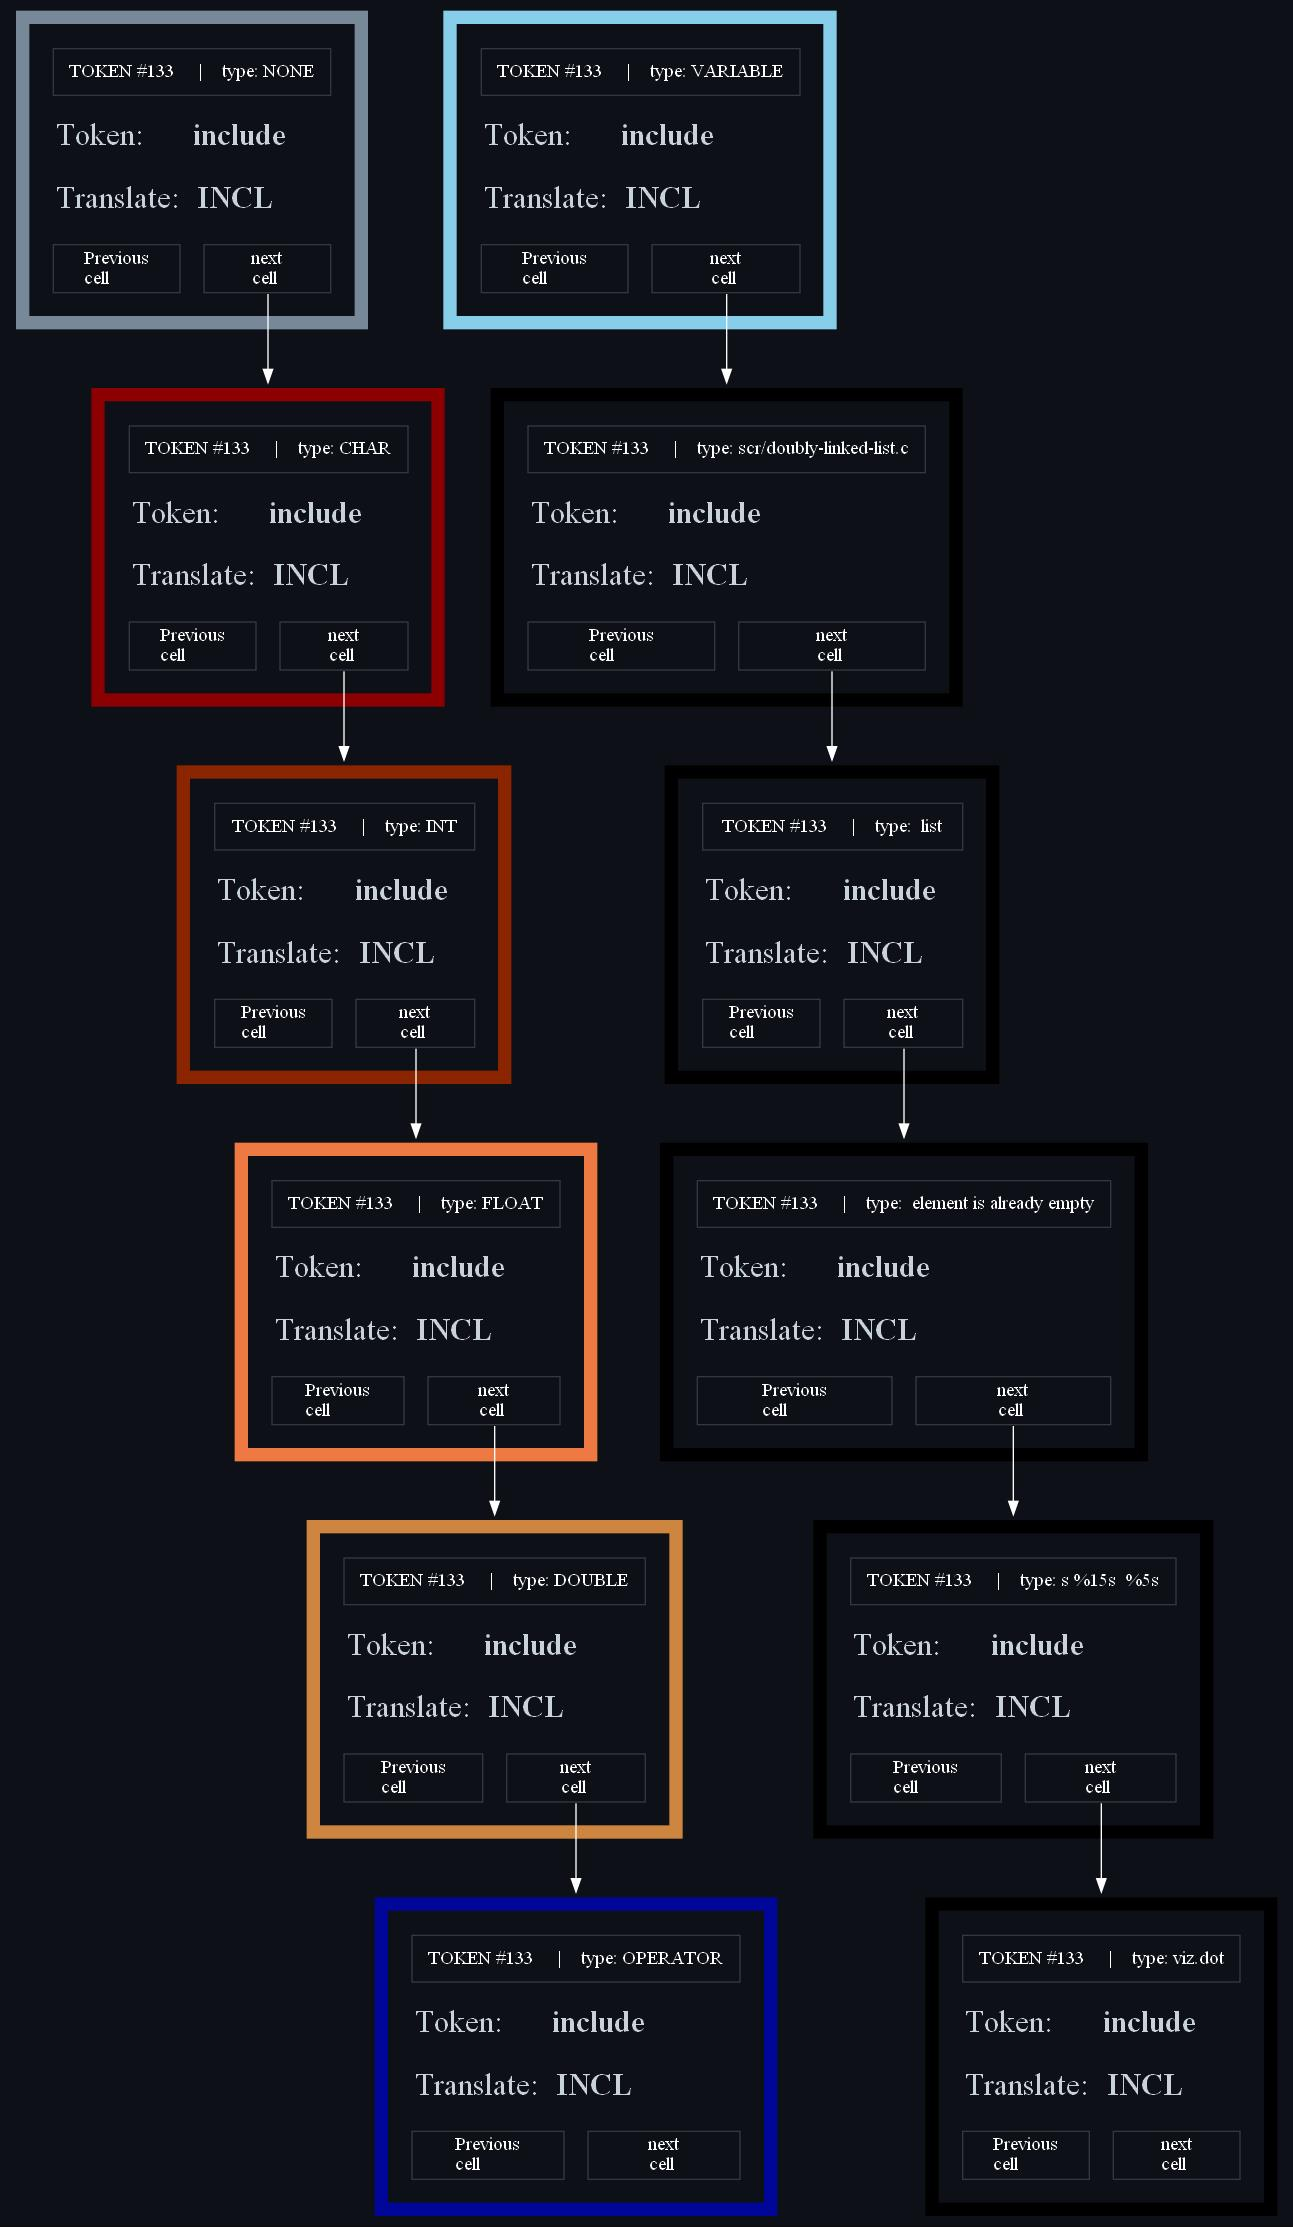
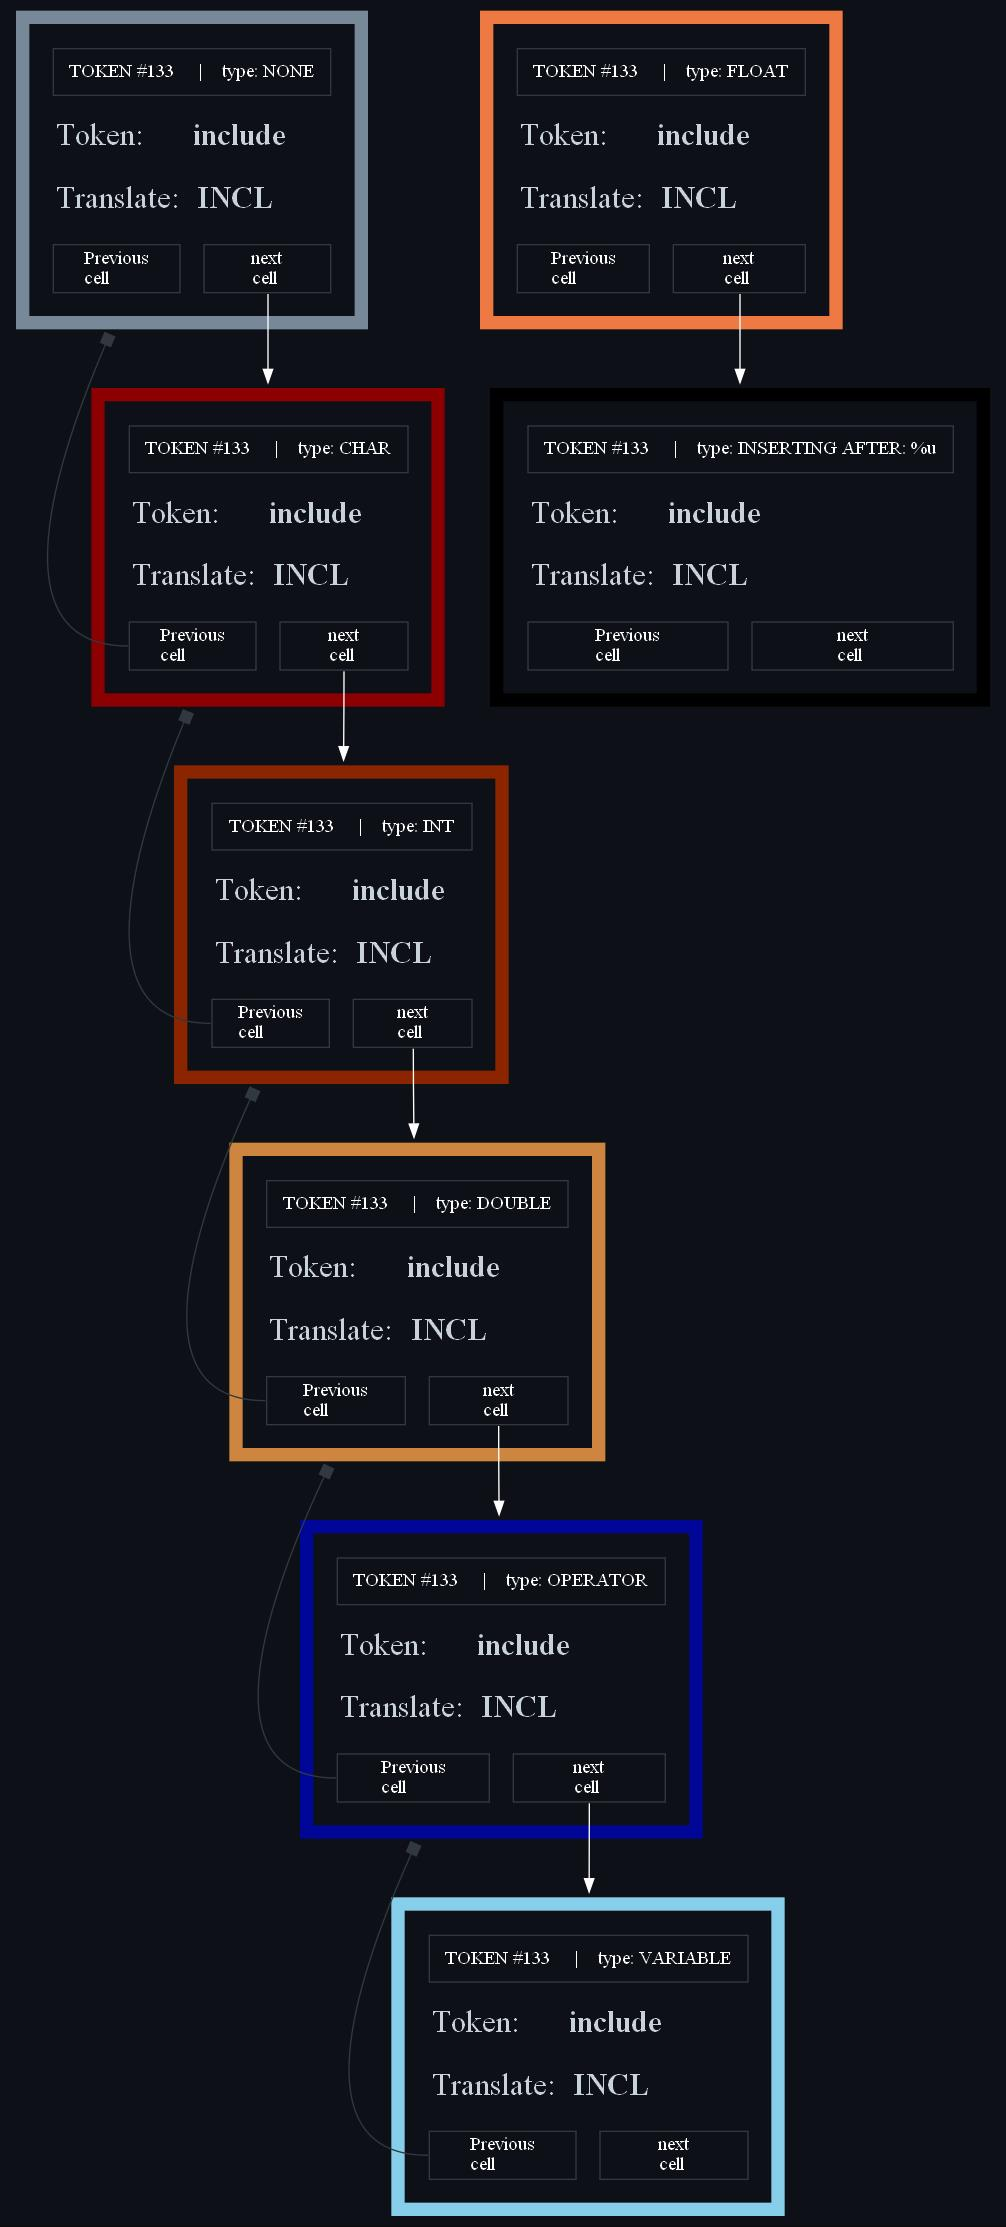
save version for adding ints to the list

diff --git a/scr/doubly-linked-list.c b/scr/doubly-linked-list.c
@@ -8,25 +8,24 @@
 #include "doubly-linked-list.h"
 
 int main () {
-	list *Tokens = newList (6);
+	list *Tokens = newList (4);
 	printList (Tokens);
 
-	ChangeCapacity (Tokens, Tokens->capacity * 2);
+	// ChangeCapacity (Tokens, Tokens->capacity * 2);
 
-	// // printList (Tokens);
-	// for (unsigned newEl = 1; newEl < 8; newEl++) {
-	// 	printf ("\n\nINSERTING AFTER: %d\n", newEl);
-	// 	InsertAfter (newEl, Tokens, 7);
-	// 	printList (Tokens);
-	// }
-
-	// // removeElem (3, Tokens);
 	// printList (Tokens);
+	for (unsigned newEl = 1; newEl < 13; newEl++) {
+		printf ("\n\nINSERTING AFTER: %u\n", newEl);
+		InsertAfter (newEl, Tokens, 7);
+		printList (Tokens);
+	}
+
+	removeElem (3, Tokens);
+	printList (Tokens);
 	drowList (Tokens);
 	return 0;
 }
 
-// #librari
 static inline unsigned listNext (list *list, unsigned index) {
 	return list->cells[index].next;
 }
@@ -59,8 +58,7 @@ struct list *newList (unsigned capacity) {
 void ChangeCapacity (list *list, unsigned capacity) {
 	assert (list != nullptr);
 
-	printf ("list:capacity = %u | new: %u\n", list->capacity, capacity);
-
+	list->cells[list->capacity - 1].next = list->capacity;
 	list->cells = (Token *)realloc (list->cells, capacity * sizeof (Token));
 
 	for (unsigned el = list->capacity; el < capacity; el++) {
@@ -74,7 +72,6 @@ void ChangeCapacity (list *list, unsigned capacity) {
 	printList (list);
 	return;
 }
-
 
 void listDtor (list *list) {
 	assert (list != nullptr);
@@ -103,7 +100,6 @@ int FindEmpty (list *list) {
 	return save_free;
 }
 
-// #want: to make function ...{After/before} as function-toggle
 void InsertAfter (unsigned index, list *list, int value) {
 	assert (list  != nullptr);
 
@@ -196,23 +192,12 @@ void printList (list *list) {
 	return;
 }
 
-void drowCell () {
-	FILE *viz = fopen ("viz/viz.dot", "w");
-	fprintf (viz, "graph G {\n");
-	fprintf (viz, "size=\"8.2, 8.2\"\n");
-
-	// fprintf (viz, "a->b\n");
-	fprintf (viz, FILL_CELL());
-	fprintf (viz, "}\n");
-
-	fclose (viz);
-	system ("dot viz/viz.dot -T png -o viz/viz.png");
-}
-
-// #vizualisation of list
 void drowList (list *list) {
-	FILE *IR_TOKENS = fopen ("viz/ir-tokens.dot", "w");
+	assert (list);
 
+	FILE *IR_TOKENS = fopen ("viz/ir-tokens.dot", "w");
+	assert (IR_TOKENS);
+	
 	fprintf (IR_TOKENS, "digraph G { bgcolor=\"#0D1117\"\n");
 	for (unsigned el = 0; el < list->capacity; el++) {
 		printf ("print list[%u]\n", el);

diff --git a/scr/doubly-linked-list.h b/scr/doubly-linked-list.h
@@ -136,7 +136,6 @@ struct list {
 };
 
 struct list *newList (unsigned capacity);
-void drowCell ();
 void printList (list *list);
 int FindEmpty (list *list);
 void ChangeCapacity (list *list, unsigned capacity);
